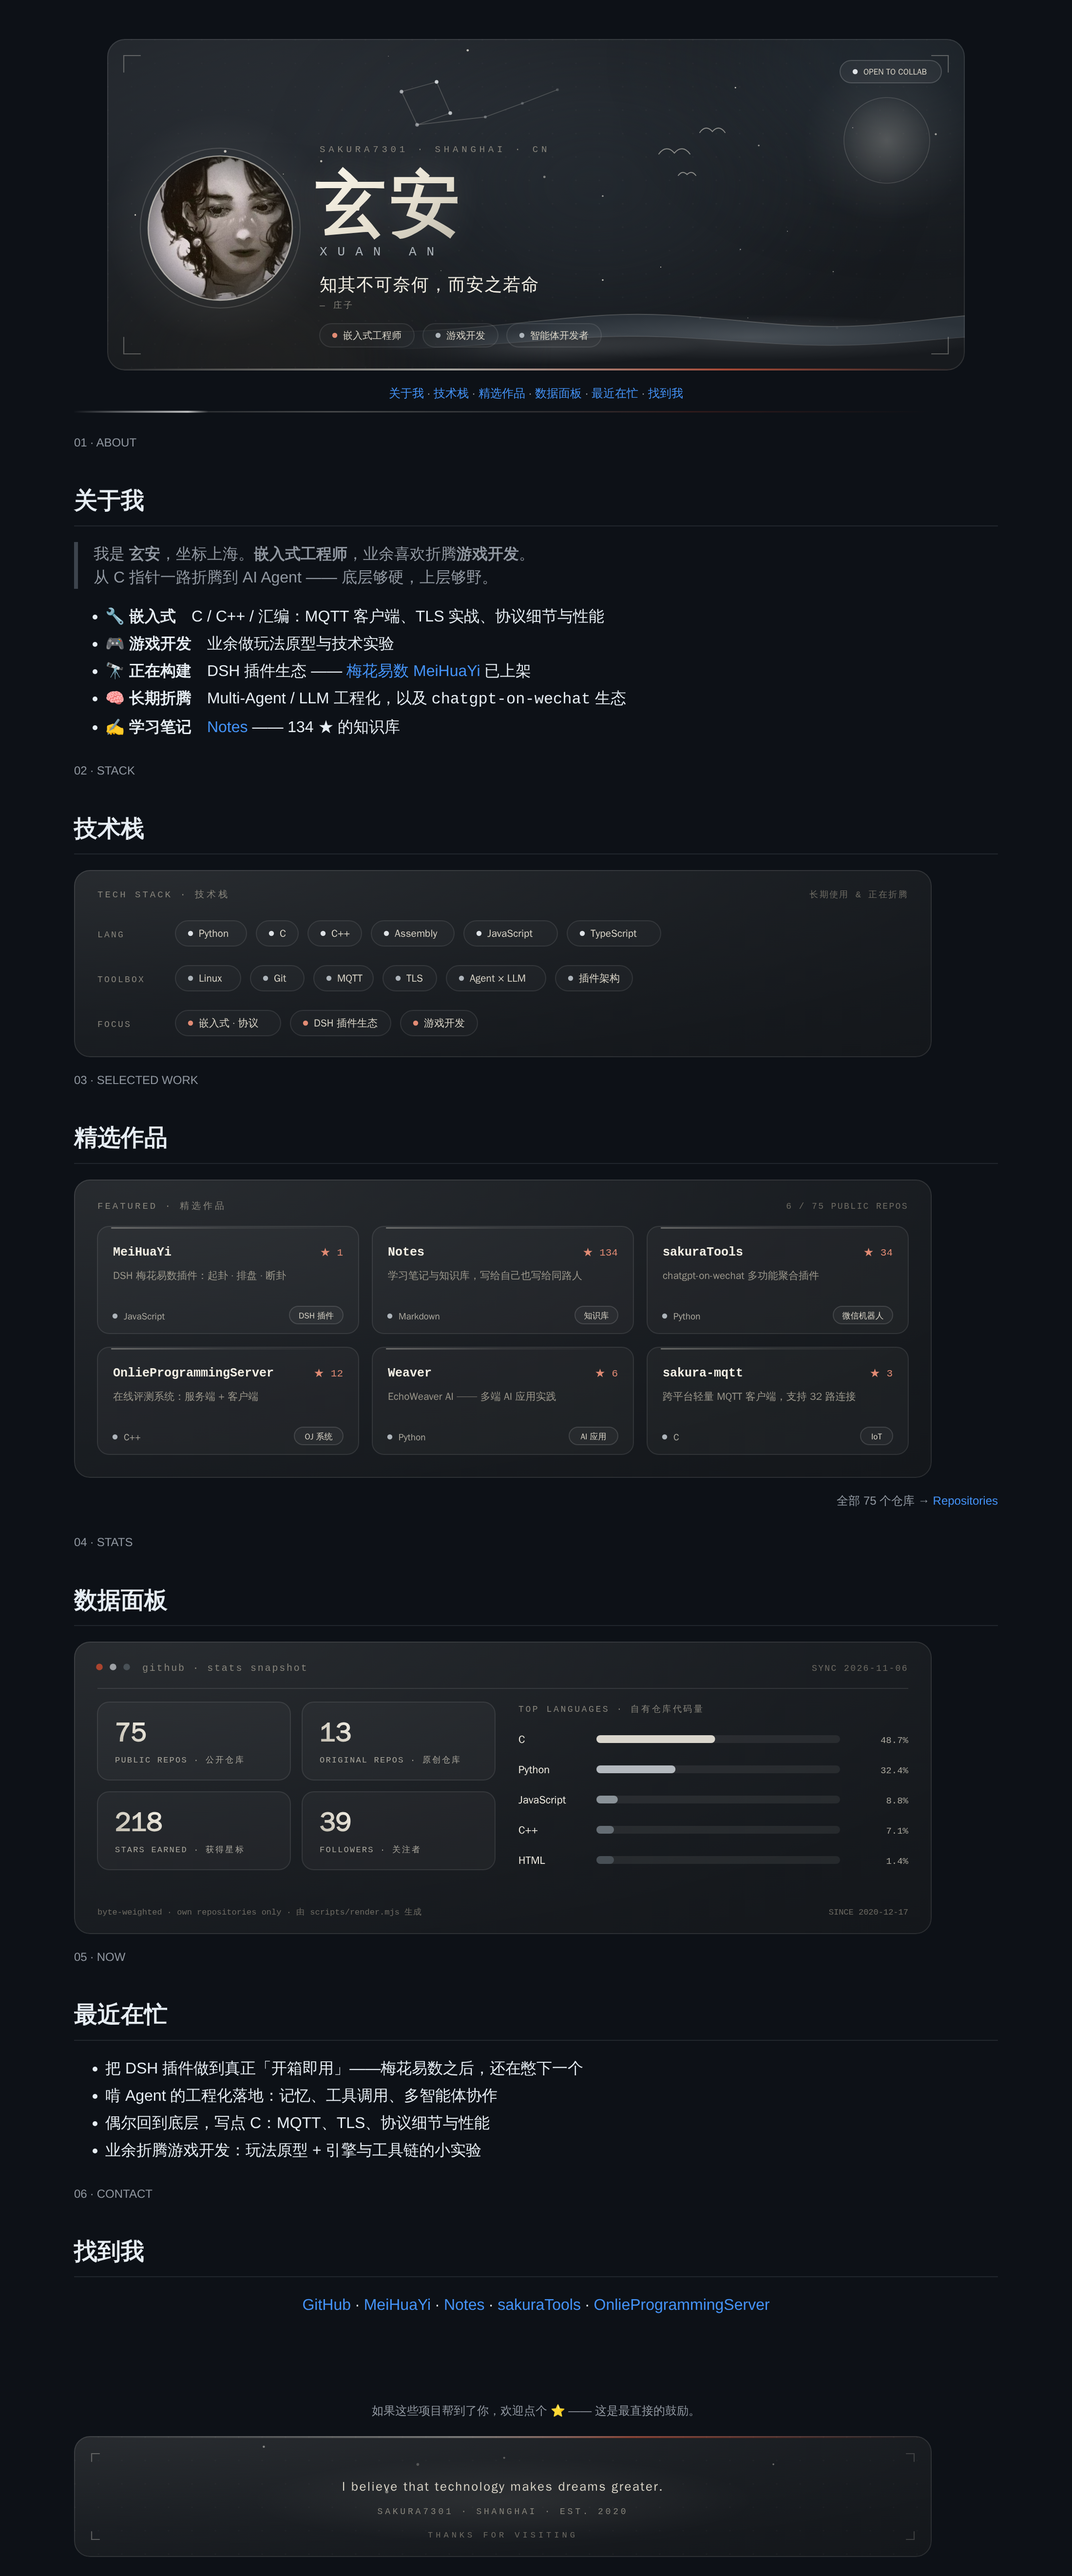
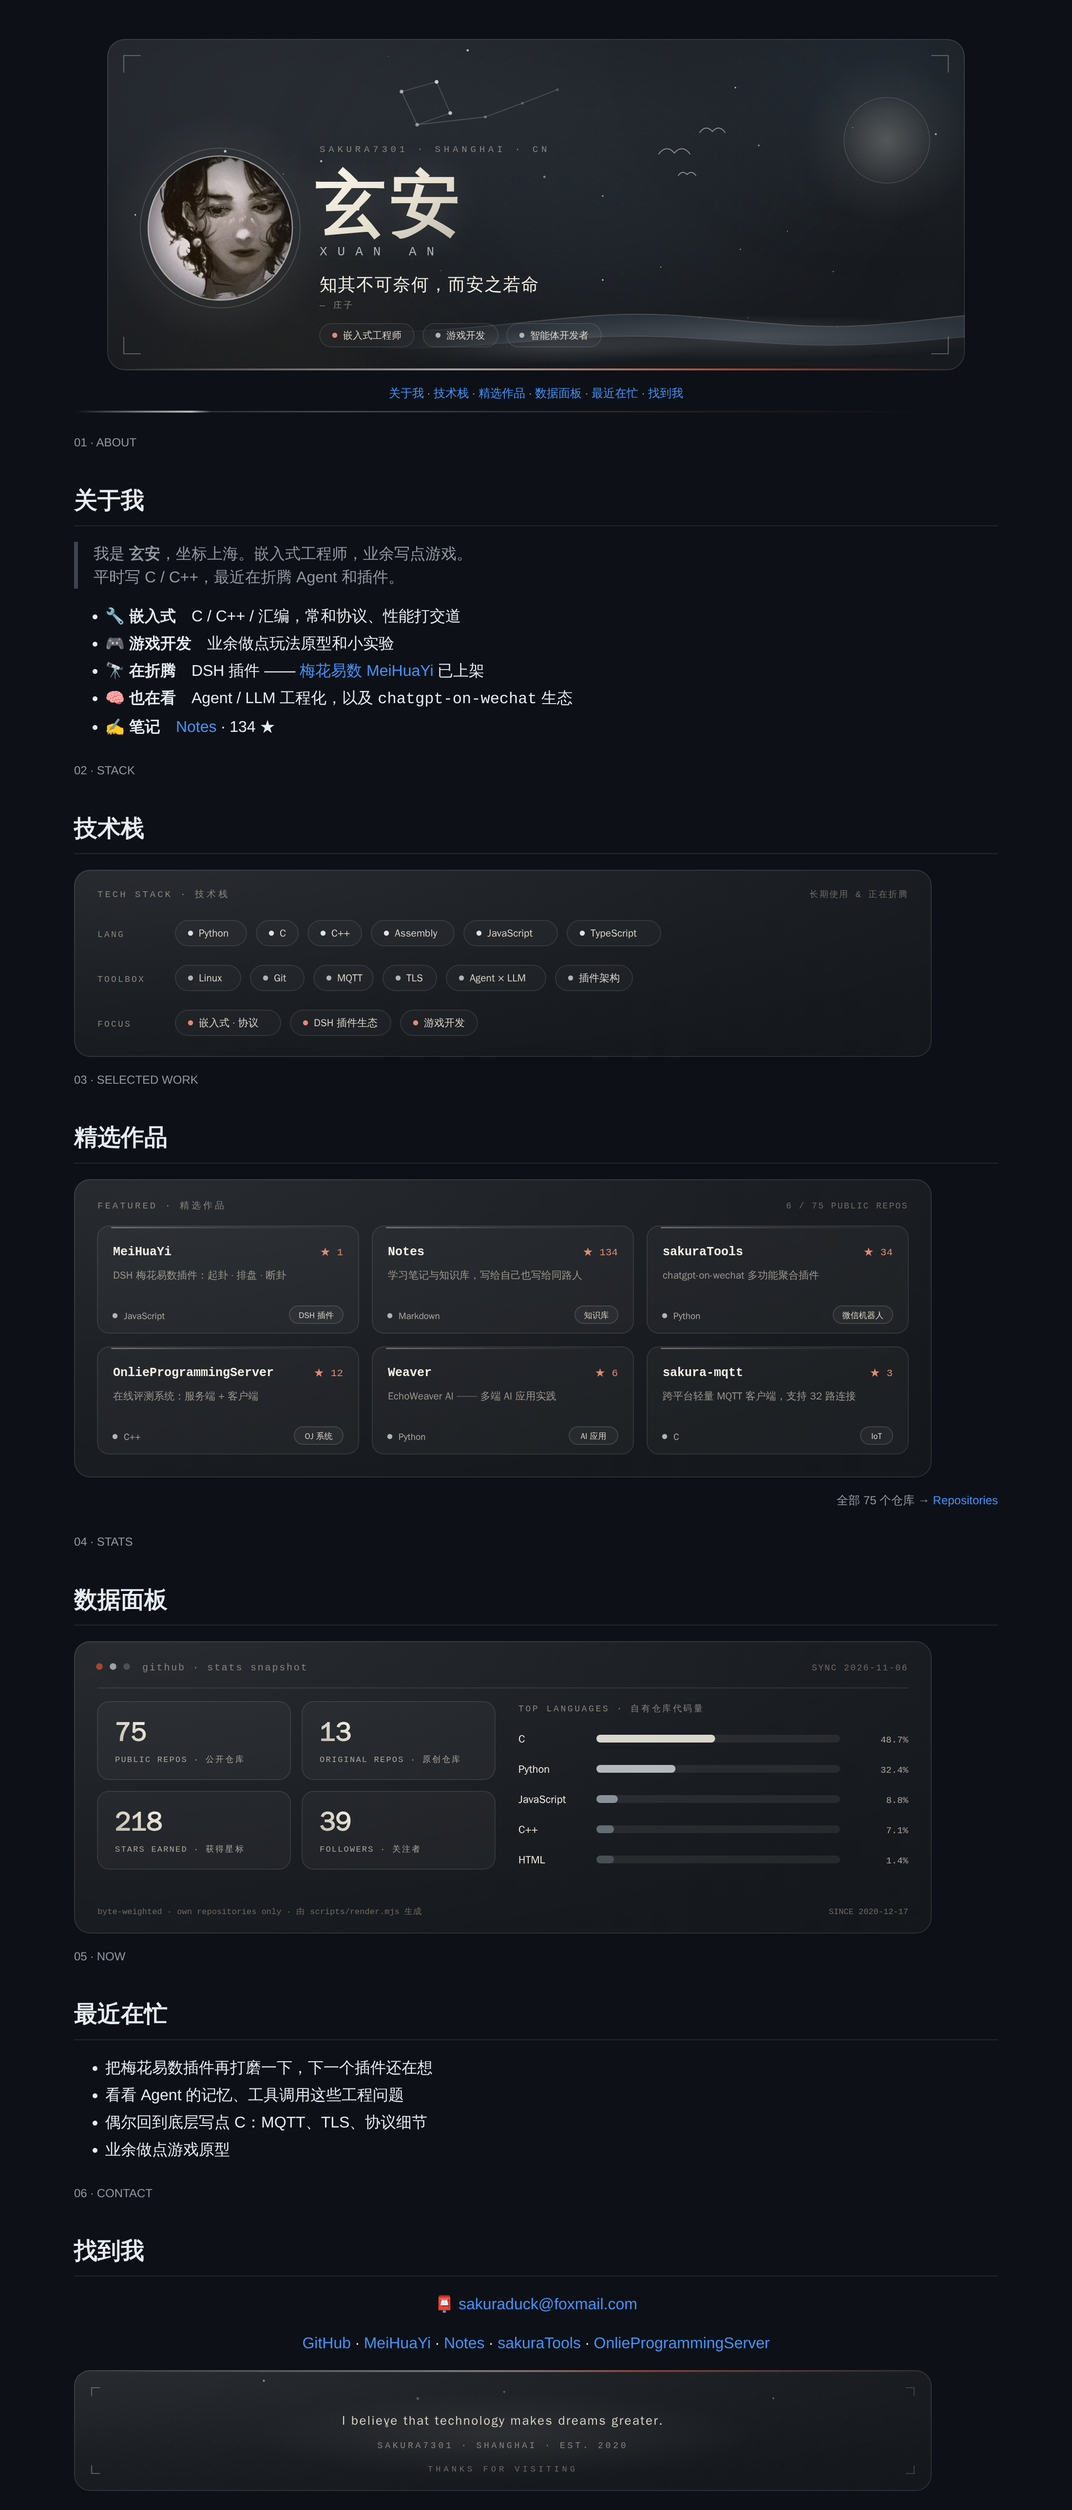
chore: 语气放平、去掉自荐标签，找到我补邮箱

diff --git a/extras/preview.html b/extras/preview.html
@@ -30,14 +30,14 @@ sub{font-size:.75em;color:#9198a1}
 <p><sub>01 · ABOUT</sub></p>
 <h2>关于我</h2>
 <blockquote>
-<p>我是 <strong>玄安</strong>，坐标上海。<strong>嵌入式工程师</strong>，业余喜欢折腾<strong>游戏开发</strong>。<br>从 C 指针一路折腾到 AI Agent —— 底层够硬，上层够野。</p>
+<p>我是 <strong>玄安</strong>，坐标上海。嵌入式工程师，业余写点游戏。<br>平时写 C / C++，最近在折腾 Agent 和插件。</p>
 </blockquote>
 <ul>
-<li>🔧 <strong>嵌入式</strong>　C / C++ / 汇编：MQTT 客户端、TLS 实战、协议细节与性能</li>
-<li>🎮 <strong>游戏开发</strong>　业余做玩法原型与技术实验</li>
-<li>🔭 <strong>正在构建</strong>　DSH 插件生态 —— <a href="https://github.com/Sakura7301/MeiHuaYi">梅花易数 MeiHuaYi</a> 已上架</li>
-<li>🧠 <strong>长期折腾</strong>　Multi-Agent / LLM 工程化，以及 <code>chatgpt-on-wechat</code> 生态</li>
-<li>✍ <strong>学习笔记</strong>　<a href="https://github.com/Sakura7301/Notes">Notes</a> —— 134 ★ 的知识库</li>
+<li>🔧 <strong>嵌入式</strong>　C / C++ / 汇编，常和协议、性能打交道</li>
+<li>🎮 <strong>游戏开发</strong>　业余做点玩法原型和小实验</li>
+<li>🔭 <strong>在折腾</strong>　DSH 插件 —— <a href="https://github.com/Sakura7301/MeiHuaYi">梅花易数 MeiHuaYi</a> 已上架</li>
+<li>🧠 <strong>也在看</strong>　Agent / LLM 工程化，以及 <code>chatgpt-on-wechat</code> 生态</li>
+<li>✍ <strong>笔记</strong>　<a href="https://github.com/Sakura7301/Notes">Notes</a> · 134 ★</li>
 </ul>
 <p><sub>02 · STACK</sub></p>
 <h2>技术栈</h2>
@@ -56,18 +56,17 @@ sub{font-size:.75em;color:#9198a1}
 <p><sub>05 · NOW</sub></p>
 <h2>最近在忙</h2>
 <ul>
-<li>把 DSH 插件做到真正「开箱即用」——梅花易数之后，还在憋下一个</li>
-<li>啃 Agent 的工程化落地：记忆、工具调用、多智能体协作</li>
-<li>偶尔回到底层，写点 C：MQTT、TLS、协议细节与性能</li>
-<li>业余折腾游戏开发：玩法原型 + 引擎与工具链的小实验</li>
+<li>把梅花易数插件再打磨一下，下一个插件还在想</li>
+<li>看看 Agent 的记忆、工具调用这些工程问题</li>
+<li>偶尔回到底层写点 C：MQTT、TLS、协议细节</li>
+<li>业余做点游戏原型</li>
 </ul>
 <p><sub>06 · CONTACT</sub></p>
 <h2>找到我</h2>
 <div align="center">
 
+<p>📮 <a href="mailto:sakuraduck@foxmail.com">sakuraduck@foxmail.com</a></p>
 <p><a href="https://github.com/Sakura7301">GitHub</a> · <a href="https://github.com/Sakura7301/MeiHuaYi">MeiHuaYi</a> · <a href="https://github.com/Sakura7301/Notes">Notes</a> · <a href="https://github.com/Sakura7301/sakuraTools">sakuraTools</a> · <a href="https://github.com/Sakura7301/OnlieProgrammingServer">OnlieProgrammingServer</a></p>
-<p><br /><br /></p>
-<p><sub>如果这些项目帮到了你，欢迎点个 ⭐ —— 这是最直接的鼓励。</sub></p>
 </div>
 
 <img src="../assets/footer.svg" width="880" alt="" />

diff --git a/README.md b/README.md
@@ -16,14 +16,14 @@
 
 ## 关于我
 
-> 我是 **玄安**，坐标上海。**嵌入式工程师**，业余喜欢折腾**游戏开发**。  
-> 从 C 指针一路折腾到 AI Agent —— 底层够硬，上层够野。
+> 我是 **玄安**，坐标上海。嵌入式工程师，业余写点游戏。  
+> 平时写 C / C++，最近在折腾 Agent 和插件。
 
-- 🔧 **嵌入式**　C / C++ / 汇编：MQTT 客户端、TLS 实战、协议细节与性能
-- 🎮 **游戏开发**　业余做玩法原型与技术实验
-- 🔭 **正在构建**　DSH 插件生态 —— [梅花易数 MeiHuaYi](https://github.com/Sakura7301/MeiHuaYi) 已上架
-- 🧠 **长期折腾**　Multi-Agent / LLM 工程化，以及 `chatgpt-on-wechat` 生态
-- ✍ **学习笔记**　[Notes](https://github.com/Sakura7301/Notes) —— 134 ★ 的知识库
+- 🔧 **嵌入式**　C / C++ / 汇编，常和协议、性能打交道
+- 🎮 **游戏开发**　业余做点玩法原型和小实验
+- 🔭 **在折腾**　DSH 插件 —— [梅花易数 MeiHuaYi](https://github.com/Sakura7301/MeiHuaYi) 已上架
+- 🧠 **也在看**　Agent / LLM 工程化，以及 `chatgpt-on-wechat` 生态
+- ✍ **笔记**　[Notes](https://github.com/Sakura7301/Notes) · 134 ★
 
 <sub>02 · STACK</sub>
 
@@ -49,10 +49,10 @@
 
 ## 最近在忙
 
-- 把 DSH 插件做到真正「开箱即用」——梅花易数之后，还在憋下一个
-- 啃 Agent 的工程化落地：记忆、工具调用、多智能体协作
-- 偶尔回到底层，写点 C：MQTT、TLS、协议细节与性能
-- 业余折腾游戏开发：玩法原型 + 引擎与工具链的小实验
+- 把梅花易数插件再打磨一下，下一个插件还在想
+- 看看 Agent 的记忆、工具调用这些工程问题
+- 偶尔回到底层写点 C：MQTT、TLS、协议细节
+- 业余做点游戏原型
 
 <sub>06 · CONTACT</sub>
 
@@ -60,11 +60,9 @@
 
 <div align="center">
 
+📮 <a href="mailto:sakuraduck@foxmail.com">sakuraduck@foxmail.com</a>
+
 <a href="https://github.com/Sakura7301">GitHub</a> · <a href="https://github.com/Sakura7301/MeiHuaYi">MeiHuaYi</a> · <a href="https://github.com/Sakura7301/Notes">Notes</a> · <a href="https://github.com/Sakura7301/sakuraTools">sakuraTools</a> · <a href="https://github.com/Sakura7301/OnlieProgrammingServer">OnlieProgrammingServer</a>
-
-<br /><br />
-
-<sub>如果这些项目帮到了你，欢迎点个 ⭐ —— 这是最直接的鼓励。</sub>
 
 </div>
 
